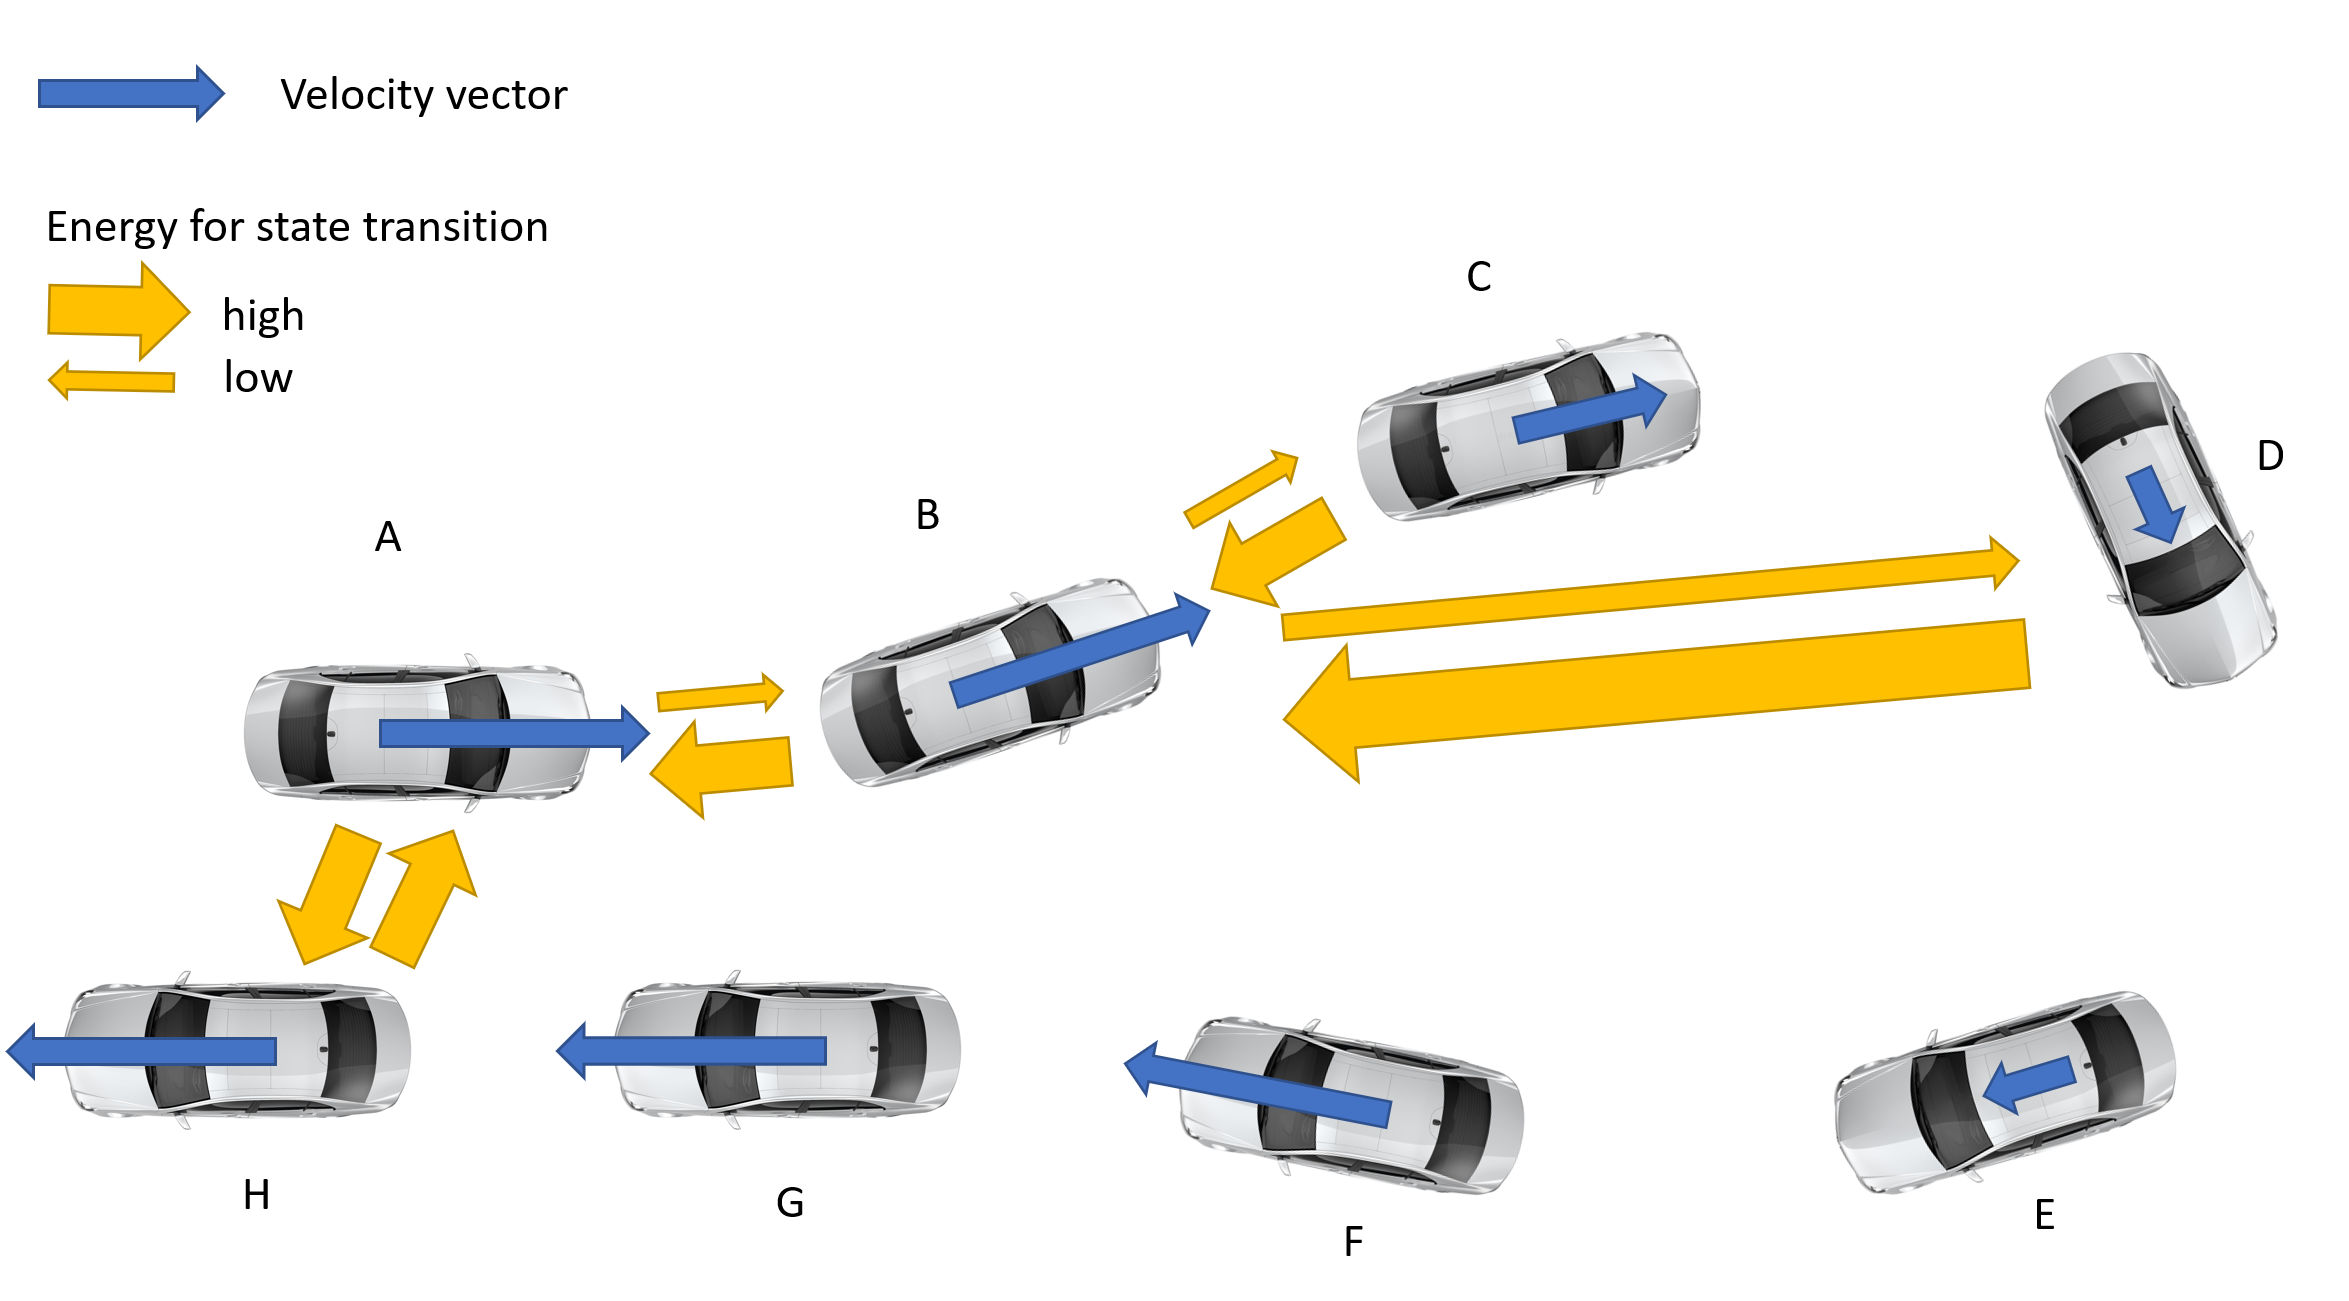
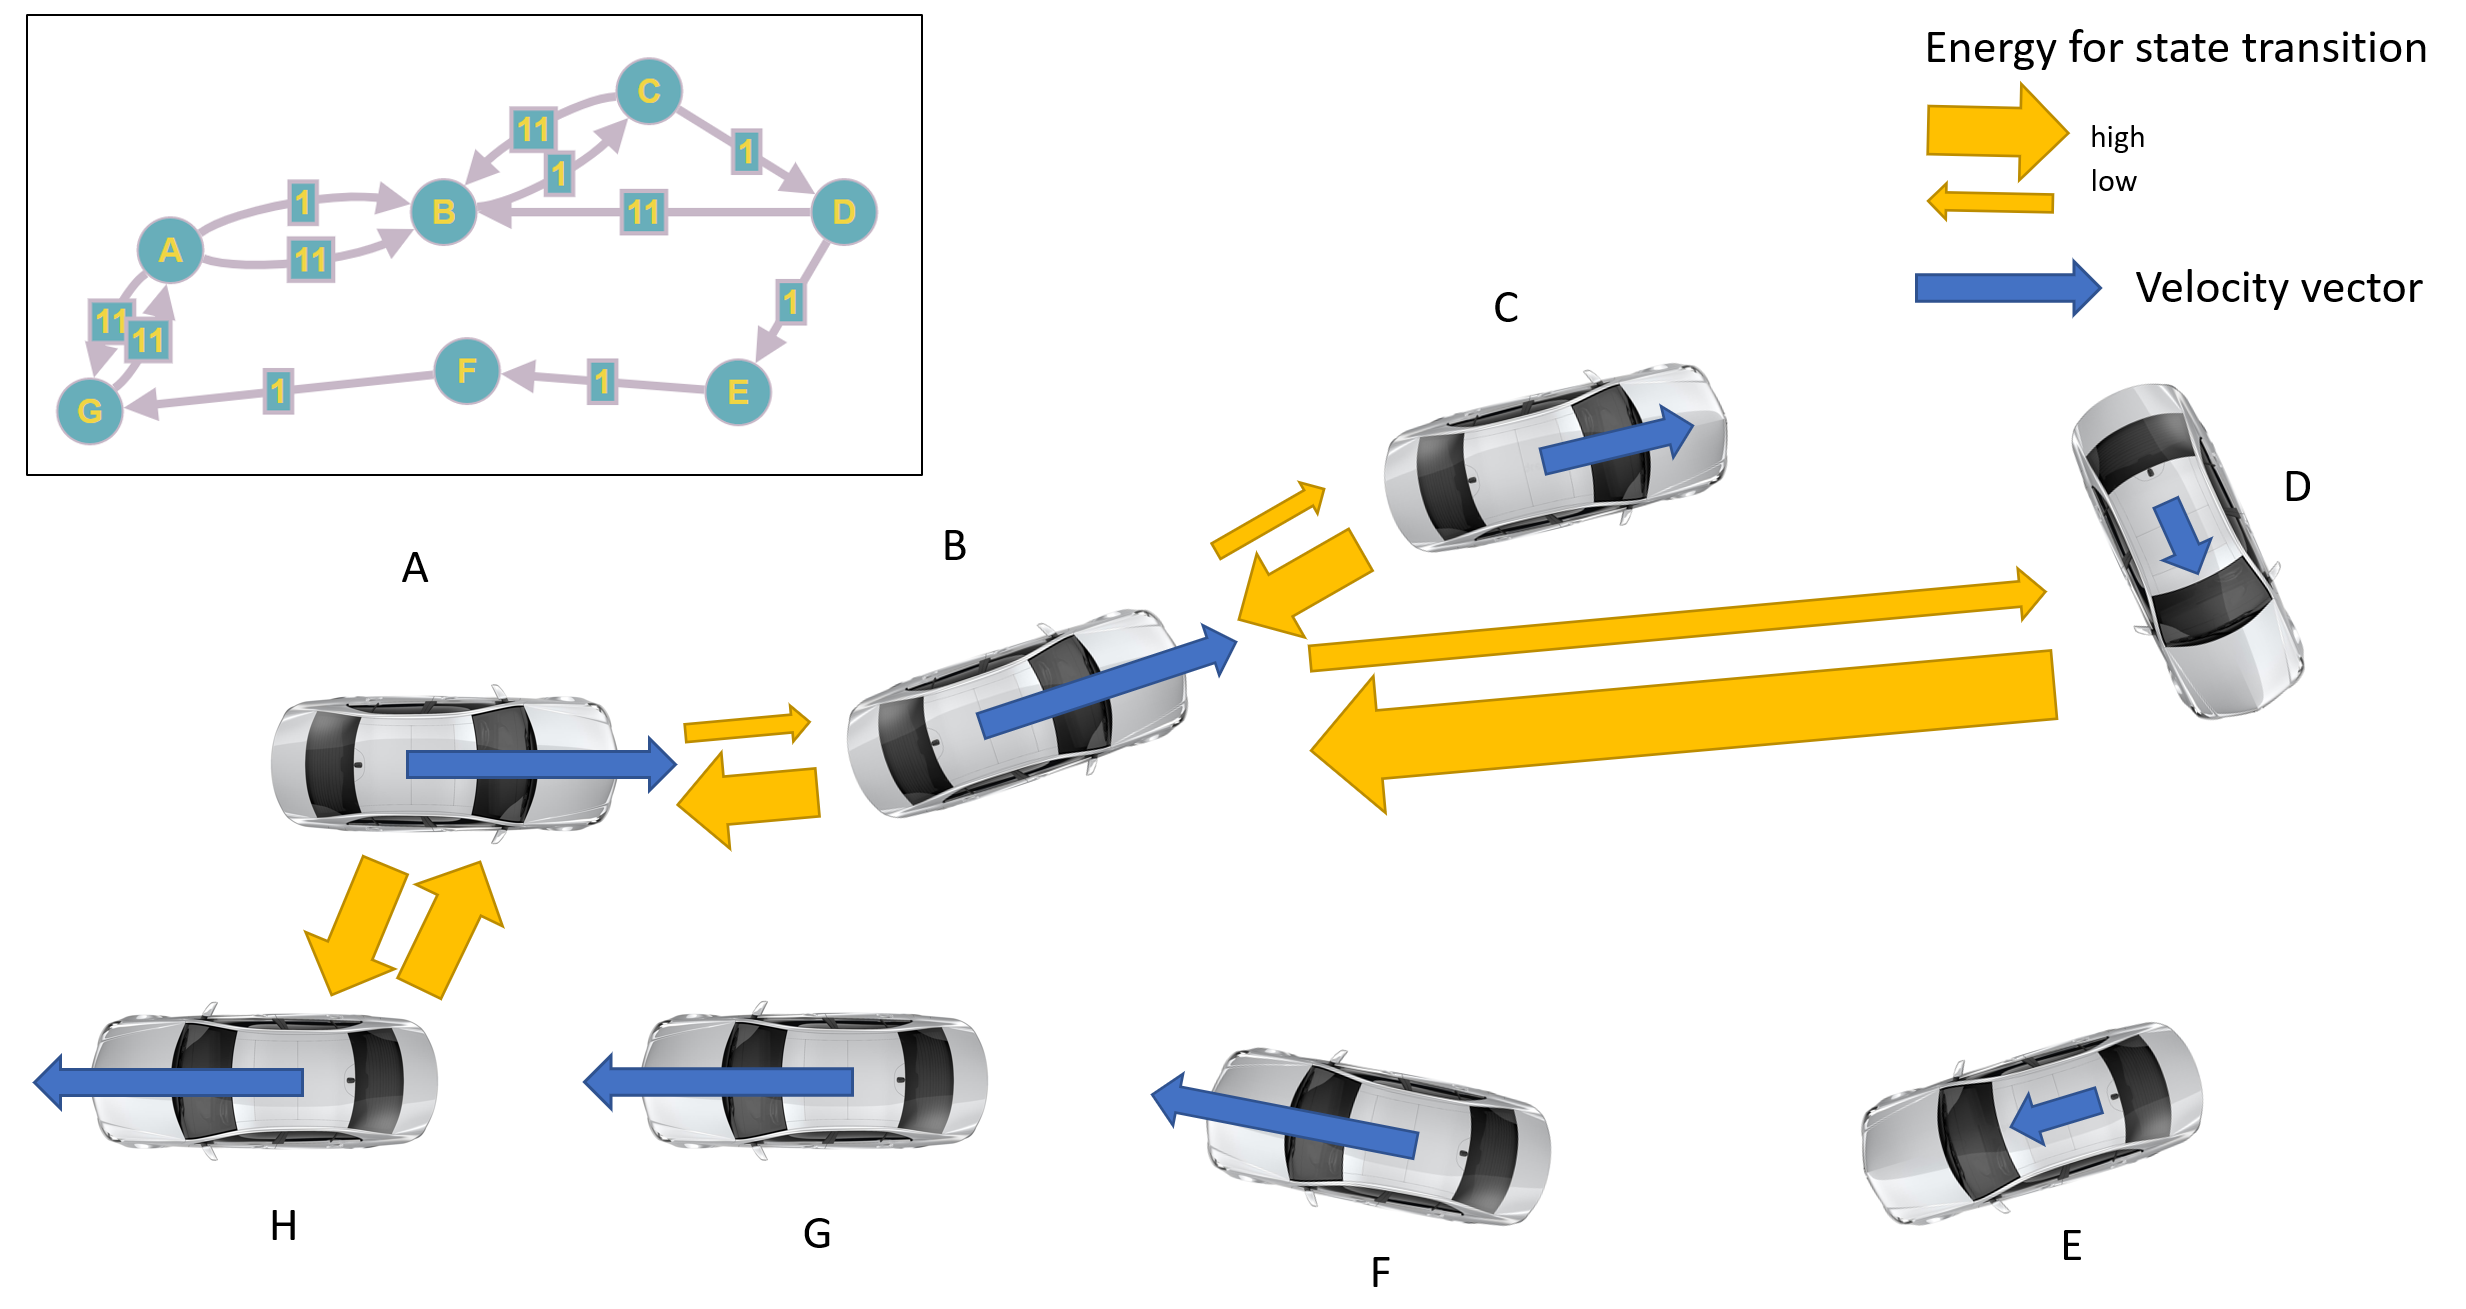
Improve traj-generation post

diff --git a/content/posts/bringing-crash-scene-diagrams-to-life/index.md b/content/posts/bringing-crash-scene-diagrams-to-life/index.md
@@ -12,7 +12,7 @@ toc: true
 
 ## Foreword
 
-When it comes to safety of autonomous vehicles (AV), we as society often claim that such a system must be safer as an average human driver.
+When it comes to safety of autonomous vehicles (AV), we as a society often claim that such a system must be safer as an average human driver.
 To validate this requirement, the industry pushes metrics such as accident-free travelled distance, expecting to cover the most critical situations an AV would face.
 
 Unfortunately, the amount of driven distance required to statistically prove the safety of such a system is huge. 
@@ -36,7 +36,8 @@ The fundamental motivation for us is:
 
 > An autonomous system behaving well on those critical events shall bring us closer to the safety goal.
 
-Across the next sections we will quickly go over the information available in the above mentioned data source. From the scene diagrams we will extract the trajectories (position over time) of all actors involved which then can be used for simulation.
+Across the next sections we will quickly go over the information available in the above mentioned data source. 
+From the scene diagrams we will extract the trajectories (position over time) of all actors involved which then can be used for simulation.
 
 ## Using NHTSA accidents to improve safety
 
@@ -49,12 +50,11 @@ process of "sampling" the data. The following paragraph is taken from the offici
 
 Each accident is visualized in a *scene diagram*. The diagram shows the traffic participants at multiple points in time throughout the scenario from bird's eye view.
 
-![scene-diagram](scene-diagram.png)
+{{< figure src="scene-diagram.png" title="Scene diagram (Case Number: 1-10-2020-130-01) " >}}
 
 In addition to the diagram, NHTSA provides additional information about injuries, vehicle models, datetime etc. on their Crash Viewer:
 
-![crash-viewer](crash-viewer.png)
-
+{{< figure src="crash-viewer.png" title="NHTSA Crash Viewer: example case" >}}
 Given the scene diagram and surrounding meta data from the database, our task is to extract realistic trajectories usable in simulation.
 
 ## Methodology
@@ -70,61 +70,124 @@ In the consecutive paragraphs we will go over each step and spend some light on 
 
 ### Step 1: Extracting vehicle shapes from the diagram
 
-The scene diagram is provided in two formats: PDF and BLZ (FARO® Blitz). The latter can be opened in every text editor and parsed as an XML.
-Usually, the vehicles are encoded as <type=’gosmodel’>, the annotations such as “Event 1” are encoded labels and the road markings are polycurves. 
-The gosmodel and label elements can be represented as a rectangle (polygon) with a particular heading angle.
-The parsing logic for that is implemented in kopytjuk/nhtsa-ciss-python: Python API to NHTSA Crash Investigation Sampling System (CISS) (github.com).
+The scene diagram is provided in two formats: `PDF` and proprietary `BLZ` (FARO® Blitz software). The latter can be opened in every text editor and parsed as an XML:
+
+```xml
+<arasblitzscene>
+    <data fileversion="1.0" exeversion="1.0.0.10" />
+    <canvas clr="255,255,255,255" panX="-155.7646" panY="6.393857" />
+    <grid gclrclr="255,135,206,235" aclrclr="255,255,0,0" space="10" t="0" axisv="F" v="F" lclr="F" pX="0" pY="0" sizeX="2008.265" sizeY="1197.521" />
+    <scene posX="0" posY="0" theta="0" scalex="1" scaley="1">
+    <layers count="2" activendx="1">
+        <layer name="Default" visible="T" locked="F" paint="F" posX="0" posY="0" theta="0" scale="1" lnclr="255,0,0,0" fillclr="255,0,0,0">
+            <items count="64">
+                <item type="poly-curve" clrclr="255,0,0,0" fclrclr="255,169,169,169" ds="0" ulclr="F" fill="F" close="F" ssa="F" sea="F" fc="T" as="1" tds="1" tdt="0" tdc="F" tdOC="F" tdOS="0" tdOO="0" tdDT="0.5" tdDL="10" tdDS="25" tdST="0" tdCF="T" tdCR="0.01" tdCW="0.35">
+                    <pnt X="337.6161" Y="-279.2642" />
+                    <pnt X="58.80255" Y="102.7296" />
+                    <pnt X="-59.16676" Y="264.2328" />
+                    <pnt X="-233.6886" Y="503.7234" />
+                    </item>
+                <item type="GuardRail" v="T" pc="F" ulc="F" lo="1" pr="1" ps="10" pntl="2" pntd="/CPFQnzUakLq0XvBylFYQw==" mlclr="255,176,196,222" mdclr="255,128,64,0" ds="0.25" dt="0" dc="F" dOC="F" dOS="0" dOO="0" dDT="1" dDL="1" dDS="10" dST="1" dCF="F" dCR="0.1" dCW="0.35" />
+                <item type="gosmodel" name="SILVERADO 1500 CREW CAB S/BOX 4X4" dmgIdx="-1" agr="F" lclr="F" vis="T" hwb="T" t="2.150799" pX="45.50632" pY="71.68256" sX="18.70079" sY="6.660105" bsX="18.1124" bsY="6.504802" matFclr="255,192,192,192" matLclr="255,0,0,0"><!-- ... --></item>
+                <item type="label" round="F" fill="F" borderVis="F" vis="T" lClr="F" arrow="F" ds="F" border="0" arrowS="1" pW="0" sX="0.5" sY="0.5" theta="0" clrB="255,255,255,255" clrL="255,0,0,0" arrowStart="2" posX="175.101" posY="-6.71208" dimX="26.32889" dimY="19.88727" arrowEndX="NaN" arrowEndY="0" padX="0" padY="0">
+                    <text type="textp" lclr="F" vis="T" t="0" s="4" posX="166.5719" posY="-3.942969" dimX="26.32889" dimY="19.88727" matclr="255,0,0,0" txt="Event 1" fFN="Arial" fSize="3.343832" fStyle="0" txtSW="17.05804" txtSH="5.53822" alignV="1" alignH="1" />
+                    </item>
+                <!-- more items ... -->
+```
+
+Usually, the vehicles are denoted as items of `type="gosmodel"`, the (human) annotations such as *Event 1* are encoded as `type="label"` and the road markings are of `type="poly-curve"`.
+
+Both the vehicles and annotation elements can be represented as a rectangle:
+
+- sizes in X and Y direction: `sX`, `sY`
+- heading angle `t` in radians.
+
+The parsing logic is implemented and available [on GitHub](https://github.com/kopytjuk/nhtsa-ciss-python).
 
 ### Step 2: Associate shapes to actual vehicles
 
-Since the labels and the vehicles can be represented as rectangle, we can easily assign known vehicle IDs with the corresponding shapes by geometrical intersection (implemented by shapely’s intersect() method). For shapes without a label (this issue exists in some diagrams), a human has to intervene and add the corresponding pairing.
+Having represented vehicles and annotation as rectangles, we can easily pair them by checking the intersection.
+This can be efficiently implemented via `shapely`'s `intersection()` method (refer to [docs](https://shapely.readthedocs.io/en/stable/manual.html#object.intersection)).
 
-### Step 3: Order waypoints by occurence
+For shapes without a label on top (this issue is true in some diagrams, like the truck in the center of diagram), 
+a human has to intervene and add the corresponding pairing manually. For simplicity this pairing is done in a tiny excel table, where we set some assignments to `TRUE` or `FALSE`:
+
+{{< figure src="human-assignment.png" title="Assignment via excel and a diagram with numbered vehicle shapes, lane markings and labels. The shape numbers are green (S0-S19)." >}}
+
+### Step 3: Order waypoints by occurrence
 
 Next, having the vehicle locations in the diagram we will order them in time. The task is relatively straightforward for us humans,
-since we see the direction of the road, we see where the collision happened and can easily imagine the temporal order of events.
-However, this ordering shall be done in automated manner. Note that since the diagrams were created (drawn) manually, 
-there is no sequence numbering included in the BLZ file.
+since we see the direction of the road, we see where the collision happened and can easily imagine the temporal order of events (from bottom right to top left).
 
-If we see the ordering problem as a graph with vehicle positions as vertices and the kinematic energy needed to transition between position as edges, we can use travelling salesman algorithms to find the right order.
+However, this ordering shall be done in automated manner. Note that since the diagrams were created (drawn) by human technicians, 
+there is no sequence numbering included in the `.blz` file which we could use.
 
-![pose-ordering-energy](pose-ordering-energy.png)
+If we formulate the ordering problem as a **graph** with:
+- vehicle positions as vertices and 
+- the [*energy*](https://en.wikipedia.org/wiki/Energy) needed to transition between position as edges
+  
+we can use algorithms solving the [Travelling Salesman Problem](https://en.wikipedia.org/wiki/Travelling_salesman_problem) to find the right order:
 
-Note that the distance alone is not the only factor for the energy required. To drive from B to A you have to brake (spend energy) and drive reverse. 
-Alternatively, you need to drive in circle. Driving from A to B however needs far less energy – the car solely faces air resistance and friction of the road (which is true for the former case, too). 
-Another example is B->C vs. B->D, where a larger distance has to be driven (together with a 90° turn). 
-For computing required energy we take a simple vacuum cleaner robot model which can only go straight or turn.
+> The travelling salesman problem (TSP) asks the following question: *Given a list of cities and the distances between each pair of cities, what is the shortest possible route that visits each city exactly once [...]?*"
 
-The travelling salesman optimal solution will find the most energy efficient (and thus most likely the actual) order of vehicle states.
+The TSP solution will lead us to the most energy efficient (and thus most likely the actual) order of vehicle locations.
 
-Note that this approach can be extended with a more sophisticated model and/or cost function.
+The following image shall give a small example of this energy graph:
+
+{{< figure src="pose-ordering-energy.png" title="Vehicle positions with velocities and required energy to transition between them. The corresponding graph is represented on the top left." >}}
+
+Note, that the distance alone is not the only factor for the required energy. To accomplish `A ← B` you have to decelerate to full stop (i.e. spend energy) and drive reverse. 
+Alternatively, you need to drive a circle to come back. Driving from `A → B` however needs far less energy – 
+the vehicle solely faces [air resistance](https://en.wikipedia.org/wiki/Drag_(physics)) 
+and [road friction](https://en.wikipedia.org/wiki/Rolling_resistance) (which is needed for the former case, of course). 
+
+The TSP algorithm is implemented in the `approximation.traveling_salesman_problem` function of the `networkx` library
+([docs](https://networkx.org/documentation/stable/reference/algorithms/generated/networkx.algorithms.approximation.traveling_salesman.traveling_salesman_problem.html)). 
+Additionally, we set `cycle=False`, since we do not want to close the loop to the starting location.
+
+Note, that this approach can be extended with a more sophisticated model and/or cost function.
 This may be needed in complex situations (e.g. states before and after collision).
+
+For the rest of this post I will use the term *waypoints* to refer to the ordered list of vehicle locations.
 
 ### Step 4: Generate drivable trajectories
 
-Next, we need to derive a set of trajectories for each actor. The trajectories have to be physically feasible and pass the waypoints ordered previously.
+Next, we need to derive a set of trajectories - one for each actor. As stated before, 
+the trajectories have to be physically feasible and pass the waypoints ordered previously.
 
-Since we look for a trajectory and not only the path, we need to add time to our waypoints. 
-Due to the nature of the diagram, there is no time information available. 
-We need to assign plausible timestamps considering the information from CISS database (e.g. speed limit or case description).
-In the example outlined in this post, we take 2s as an equidistant time period between waypoints.
+Since we try to generate a *trajectory* and not only the path (locations \wo timestamps), we need to add time to our waypoints.
+Due to the nature of the diagram, there is no time information available.
+Thus, we need to assign plausible timestamps considering the information from CISS database (e.g. speed limit or case description).
+In this example, we take $\Delta T = 2s$ as constant time periods between waypoints.
 
-One way to do that is to employ a real vehicle model and solve an optimal trajectory problem given the waypoints and their timestamps as constrains. 
-The cost function for that problem shall favour human acceleration and steering behaviour.
-A more simple, faster but not necessarily realistic approach is to fit two (x & y) spline functions over time:
+One way to create trajectories is to formulate a [trajectory opitmization problem](http://underactuated.mit.edu/trajopt.html#section1) given the waypoints and their timestamps as constrains.
+Therefore we would need to employ a mathematical vehicle model. The cost function $J$ for that problem shall favour human acceleration and steering behaviour.
+
+A far more simple and faster but not necessarily realistic approach is to fit two [spline functions](https://en.wikipedia.org/wiki/Spline_interpolation) over time:
 
 $$
-TODO
+x(t) = f(t; \bold w_x) \\\
+y(t) = f(t; \bold w_y)
 $$
 
-We can give the initial and final velocities (speed limit from the database and 0) as constraints to the fitting algorithm.
-I used scipy.interpolate.make_interp_spline — SciPy v1.9.3 Manual for fitting the trajectories.
+Note that time $t$ is the argument for both of the functions.
+
+We find the spline parameters $\bold w_x$ by fitting the spline to the waypoints ($t$ and $x$ in particular):
+
+$$
+w^{i} = (t^i, x^i, y^i) \ \forall i \in [1 ... N]
+$$
+
+For a better result, we can provide the initial and final velocities $v_0, v_f$ (speed limit from the database and 0) as constraints to the fitting algorithm.
+For this post `scipy.interpolate.make_interp_spline` with `k=3` (cubic polynoms) was used for fitting the trajectories.
 
 In the following animation the four involved vehicle trajectories are visualized:
 
 {{< video "20201010130-cartesian.mp4" "test" 500 450 >}}
 
-In case the trajectories are not plausible (deceleration without obvious reasons, like V4 at 0:02) or physical feasible repeat the fitting process with different timestamps and initial velocities. The idea for this iterative process was taken from [1]. The physical feasibility can be checked on the curvature or acceleration/velocity signal of the trajectory. Imagine a heavy vehicle accelerating with 1G, which is only possible with tuned Cybertruck.
+Sometimes, dependent on chosen $\Delta T$ or velocities $v_0, v_f$, the trajectories won't be plausible (e.g. deceleration without obvious reasons, like V4 at `0:02`) or even worse, physically infeasible.
+The physical feasibility can be checked in automated manner on the curvature or acceleration/velocity signal of the trajectory. 
+To address those issues, repeat the fitting process with different timestamps and velocities. The idea for this iterative process was taken from [this paper](https://ieeexplore.ieee.org/document/5509799).
 
 ## Summary
 
@@ -132,3 +195,5 @@ This blog post outlines the methodology to make accident database data from NHTS
 
 ## References
 
+- GitHub repository: https://github.com/kopytjuk/nhtsa-ciss-python
+- NHTSA CISS homepage: https://www.nhtsa.gov/crash-data-systems/crash-investigation-sampling-system
